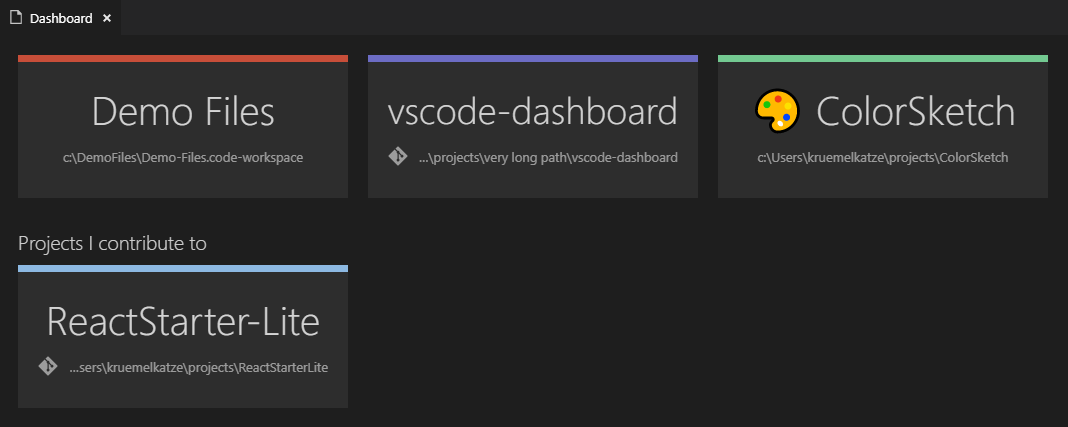
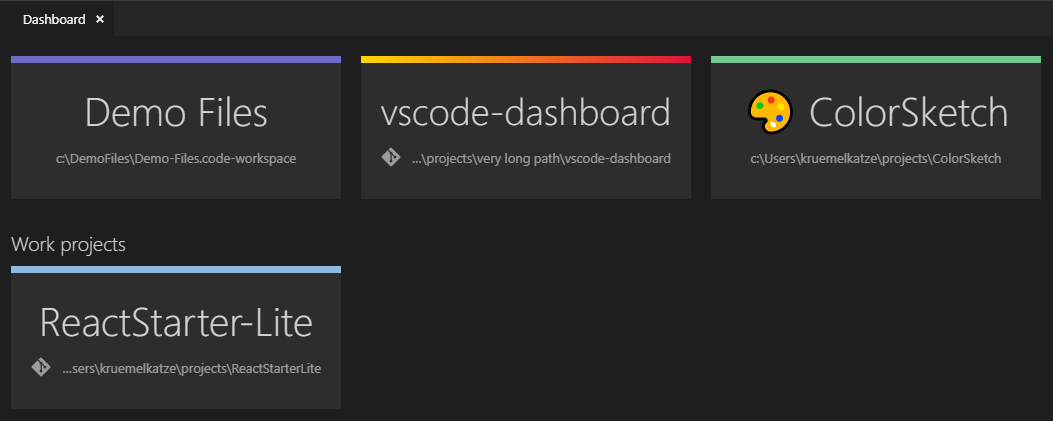
prepare v1.4

diff --git a/README.md b/README.md
@@ -21,6 +21,14 @@ The commands should speak for themselves. :)
 * Dashboard: Edit Projects
 * Dashboard: Remove Project
 
+## Good to know
+
+* You can **reorder** the projects directly on the dashboard.
+* **Emojis** may (or may not, depending on your preference) be good icons for projects. You can add them by pressing WIN + . (under Windows) while naming the project.
+* **Gradients** can also be used as project color.
+* Only **colors** defined by the theme were used. So the dashboard should always blend nicely into your VSCode design. If not, you can customize them in the settings.
+* vscode-dashboard automatically detects if a project is a **Git repository**. If so, this is indicated by an icon.
+
 ### Customization
 
 By default, dashboard uses only colors defined by the theme, which was tested against all default themes. If you use a custom theme and see the dashboard's colors unfit, you can change them in the settings (Settings > Dashboard). Following settings can be changed to any css color (name, hex, rgba, hsl, var) or left empty (for default):
@@ -35,11 +43,6 @@ Displaying the project path can also be toggled in the settings.
 
 [View Changelog](CHANGELOG.md)
 
-## Notes
-* You can reorder the projects directly on the dashboard.
-* Emojis may (or may not, depending on your preference) be good icons for projects. You can add them by pressing WIN + . (under Windows) while naming the project.
-* Only colors defined by the theme were used. So the dashboard should always blend nicely into your VSCode design. If not, you can customize them in the settings.
-* vscode-dashboard automatically detects if a project is a Git repository. If so, this is indicated by an icon.
 
 ## Acknowledgements
 Special thanks to [Font Awesome](http://fontawesome.io) [(License)](https://fontawesome.com/license) for the icons used in the dashboard.

diff --git a/CHANGELOG.md b/CHANGELOG.md
@@ -1,6 +1,16 @@
 # Change Log
 All notable changes to the "dashboard" extension will be documented in this file. It follows the [Keep a Changelog](http://keepachangelog.com/) recommendations.
 
+## [1.4] 2019-07-07
+### Added
+- Support for gradient borders.
+
+### Changed
+- Removed color input validation in order to support any color definition.
+
+### Fixed
+- Editing projects now correctly sets color.
+
 ## [1.3] 2019-06-27
 ### Added
 - Editing functionality directly on Dashboard
